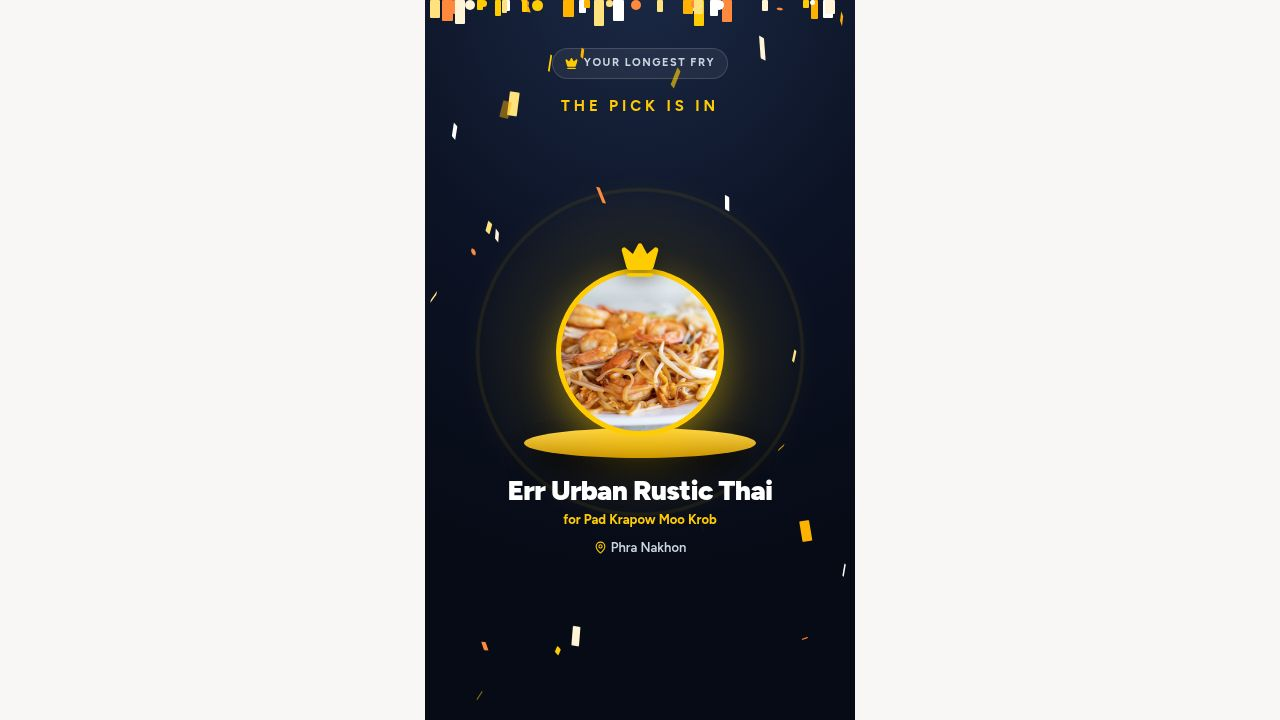
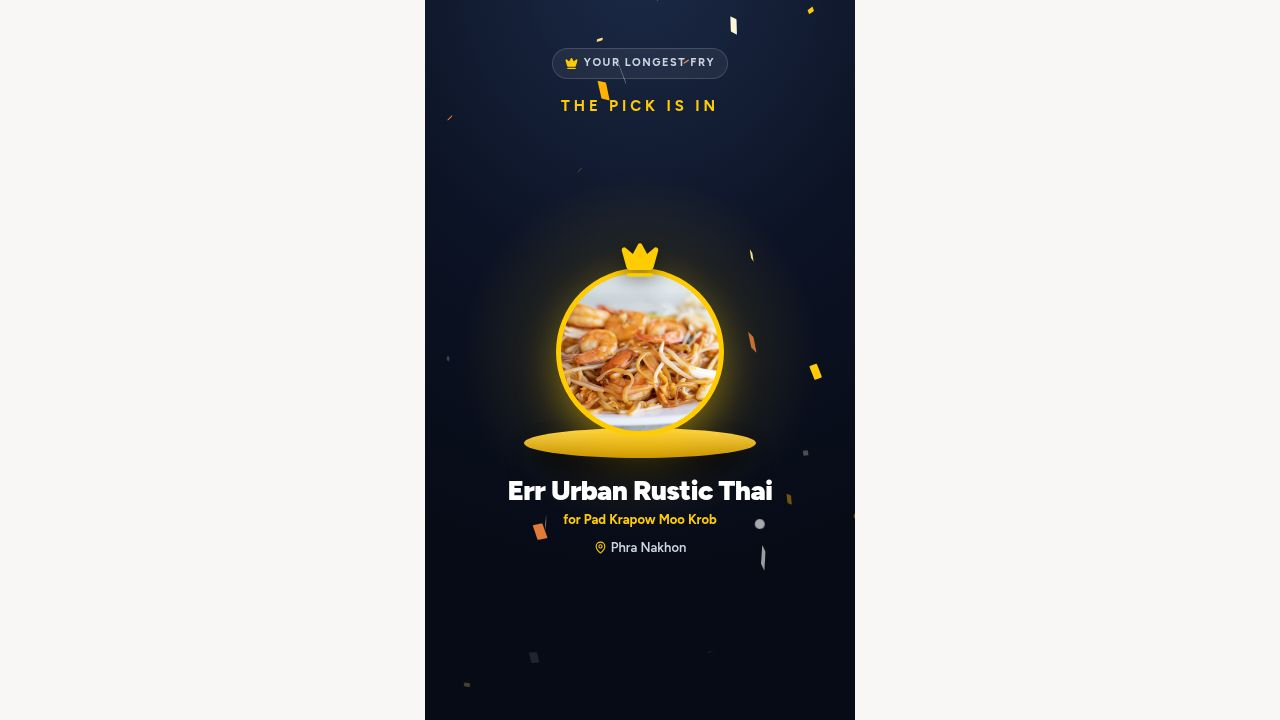
Fix confetti pieces sticking to the top of the screen
Update `DestinationReveal.tsx` to apply `backwards` fill mode to the confetti fall animation, preventing pieces from appearing stuck at the top edge during their stagger delay.

Replit-Commit-Author: Agent
Replit-Commit-Session-Id: 398988e2-4d32-4a4b-8ba4-eb518214bb6f
Replit-Commit-Checkpoint-Type: full_checkpoint
Replit-Commit-Event-Id: 23c48331-fd75-4f11-91c8-6b903825b613
Replit-Commit-Screenshot-Url: https://storage.googleapis.com/screenshot-production-us-central1/92ec004f-3b01-4d87-9e5c-b6c40fd566ac/398988e2-4d32-4a4b-8ba4-eb518214bb6f/DZXo9OL
Replit-Helium-Checkpoint-Created: true

diff --git a/client/src/components/group-tiebreaker/DestinationReveal.tsx b/client/src/components/group-tiebreaker/DestinationReveal.tsx
@@ -359,7 +359,9 @@ export function DestinationReveal({
                   height: c.h,
                   perspective: "500px",
                   ["--sway" as any]: `${c.sway}px`,
-                  animation: `tbd-confettiFall ${c.dur}s linear ${c.delay}s infinite`,
+                  // `backwards` holds the off-screen (-10vh, opacity 0) start state
+                  // during the stagger delay so flakes don't sit stuck at the top edge.
+                  animation: `tbd-confettiFall ${c.dur}s linear ${c.delay}s infinite backwards`,
                 } as CSSProperties
               }
             >
